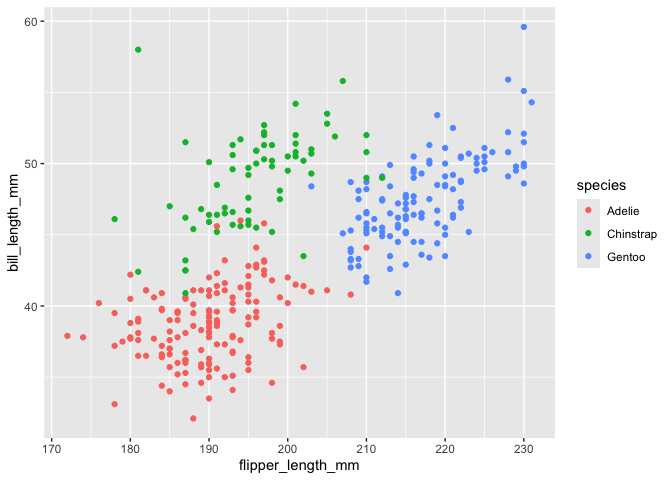
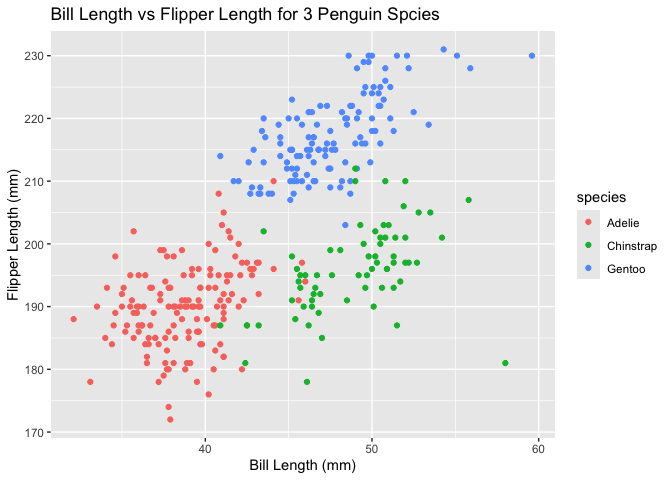
Final edits. Added plot title and labels for problem 1. Added an extra code chunk to convert vectors using as.numeric for problem 2.

diff --git a/p8105_hw1_mh4589.md b/p8105_hw1_mh4589.md
@@ -1,6 +1,7 @@
 p8105_HW1_mh4589
 ================
-2024-09-14
+My An Huynh
+2024-09-21
 
 ``` r
 library (tidyverse)
@@ -16,7 +17,9 @@ data("penguins", package = "palmerpenguins")
 
 #### Description of the dataset
 
-Here are the variables of the penguins dataset:
+The penguins dataset contains information on three different penguin
+species (Adelie, Chinstrap and Gentoo). Here are the important variables
+of the penguins dataset:
 
 **Species**: The species of the penguin (Adelie, Chinstrap, or Gentoo).
 
@@ -38,10 +41,28 @@ The data set has 8 columns and 344 rows.
 
 The mean flipper length is 200.9152047 milimeters.
 
+The scatterplot was constructed with bill length on x-axis and flipper
+length on y-axis. I used color = species to categorize by species.
+
+``` r
+ggplot(penguins,aes (
+  x=bill_length_mm, 
+  y=flipper_length_mm,
+  color = species)) +
+  geom_point() +
+  labs(title = "Bill Length vs Flipper Length for 3 Penguin Spcies",
+       x = "Bill Length (mm)",
+       y = "Flipper Length (mm)")
+```
+
     ## Warning: Removed 2 rows containing missing values or values outside the scale range
     ## (`geom_point()`).
 
 ![](p8105_hw1_mh4589_files/figure-gfm/penguin_plot-1.png)<!-- -->
+
+``` r
+ggsave("hw1_penguinsplot.pdf")
+```
 
     ## Saving 7 x 5 in image
 
@@ -50,28 +71,76 @@ The mean flipper length is 200.9152047 milimeters.
 
 ## Problem 2
 
+Created a dataframe named rnorm_df with 4 different vectors - norm_samp,
+logical, character and factor.
+
 ``` r
 #create a 10x4 data frame. Length is 10. 4 different vectors 
 rnorm_df = 
   tibble (
     norm_samp = rnorm(10),
     vec_logical = norm_samp > 0,
-    vec_character = c("Item 1", "Item 2", "Item 3", "Item 4", "Item 5", "Item 6", "Item 7", "Item 8", "Item 9", "Item 10"),
-    vec_factor = factor(sample(c("level 1", "level 2", "level 3"), 10, replace = TRUE)))
-  
-print(rnorm_df)
+    vec_character = c("a","b","c","d","e","f","g","h","i","j"),
+    vec_factor = factor(c("level 1", "level 2", "level 3","level 1", "level 2", "level 3", "level 1","level 1", "level 2", "level 3"))
+)
 ```
 
-    ## # A tibble: 10 × 4
-    ##    norm_samp vec_logical vec_character vec_factor
-    ##        <dbl> <lgl>       <chr>         <fct>     
-    ##  1   -1.75   FALSE       Item 1        level 2   
-    ##  2   -0.669  FALSE       Item 2        level 2   
-    ##  3    0.245  TRUE        Item 3        level 3   
-    ##  4    0.653  TRUE        Item 4        level 2   
-    ##  5   -0.204  FALSE       Item 5        level 1   
-    ##  6    0.425  TRUE        Item 6        level 3   
-    ##  7    0.813  TRUE        Item 7        level 3   
-    ##  8   -0.675  FALSE       Item 8        level 1   
-    ##  9   -2.23   FALSE       Item 9        level 3   
-    ## 10    0.0114 TRUE        Item 10       level 2
+I used the pull function to calculate the mean. The mean function only
+works for norm_samp because it is a numeric column, and for vec_logical
+because TRUE is assigned a value of 1 and FALSE is assigned a value of
+0. The mean function does not work on the character and factor vectors.
+
+``` r
+mean_norm_samp =  mean(pull(rnorm_df, norm_samp))
+mean_norm_samp
+```
+
+    ## [1] -0.2308926
+
+``` r
+mean_vec_character = mean(pull(rnorm_df, vec_character), na.rm = TRUE)
+```
+
+    ## Warning in mean.default(pull(rnorm_df, vec_character), na.rm = TRUE): argument
+    ## is not numeric or logical: returning NA
+
+``` r
+mean_vec_character
+```
+
+    ## [1] NA
+
+``` r
+mean_vec_logical = mean(pull(rnorm_df, vec_logical))
+mean_vec_logical
+```
+
+    ## [1] 0.4
+
+``` r
+mean_vec_factor = mean(pull(rnorm_df, vec_factor))
+```
+
+    ## Warning in mean.default(pull(rnorm_df, vec_factor)): argument is not numeric or
+    ## logical: returning NA
+
+``` r
+mean_vec_factor
+```
+
+    ## [1] NA
+
+When I applied the as.numeric function, I was able to calculate the mean
+for the logical and factor vectors, but not the character vector. This
+is because the as.numeric function assigns value 1 for TRUE and 0 for
+FALSE to the logical vector, and it assigns values 1,2,3 for the 3
+different levels in the factor vector, but it cannot assign numeric
+values to characters in the character vector.
+
+    ## Warning: NAs introduced by coercion
+
+    ## [1] NA
+
+    ## [1] 0.4
+
+    ## [1] 1.9
